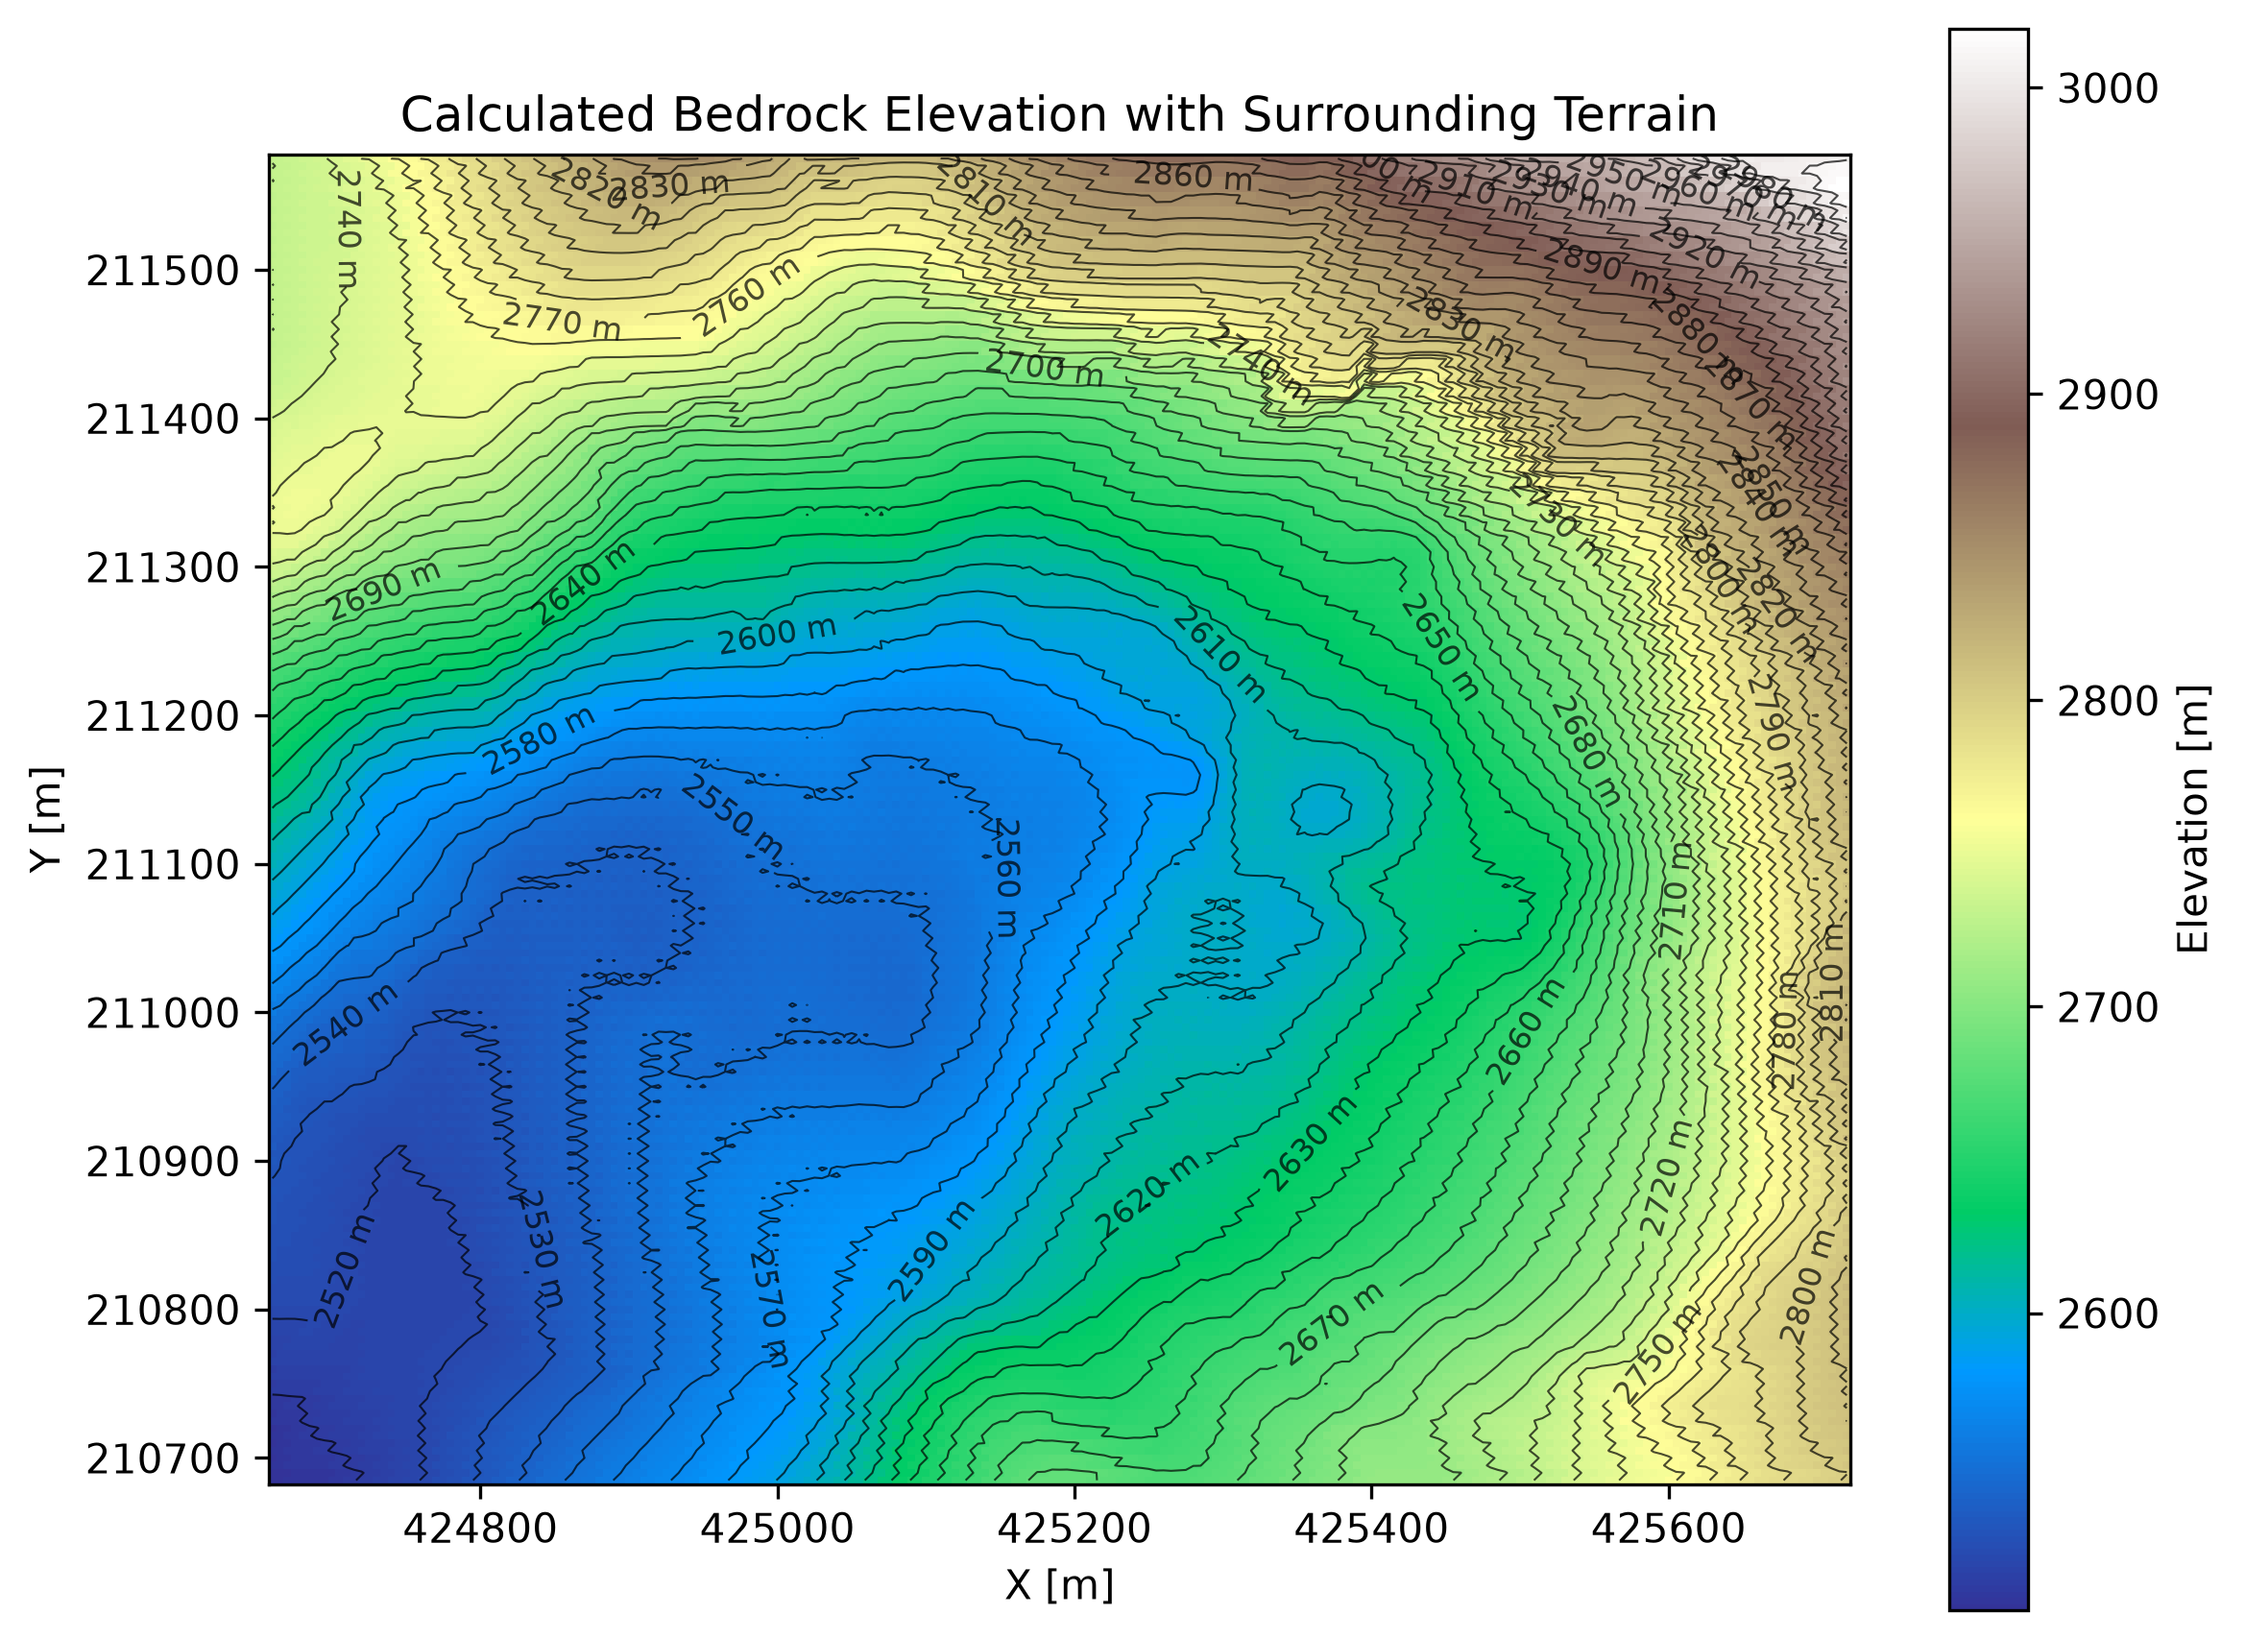
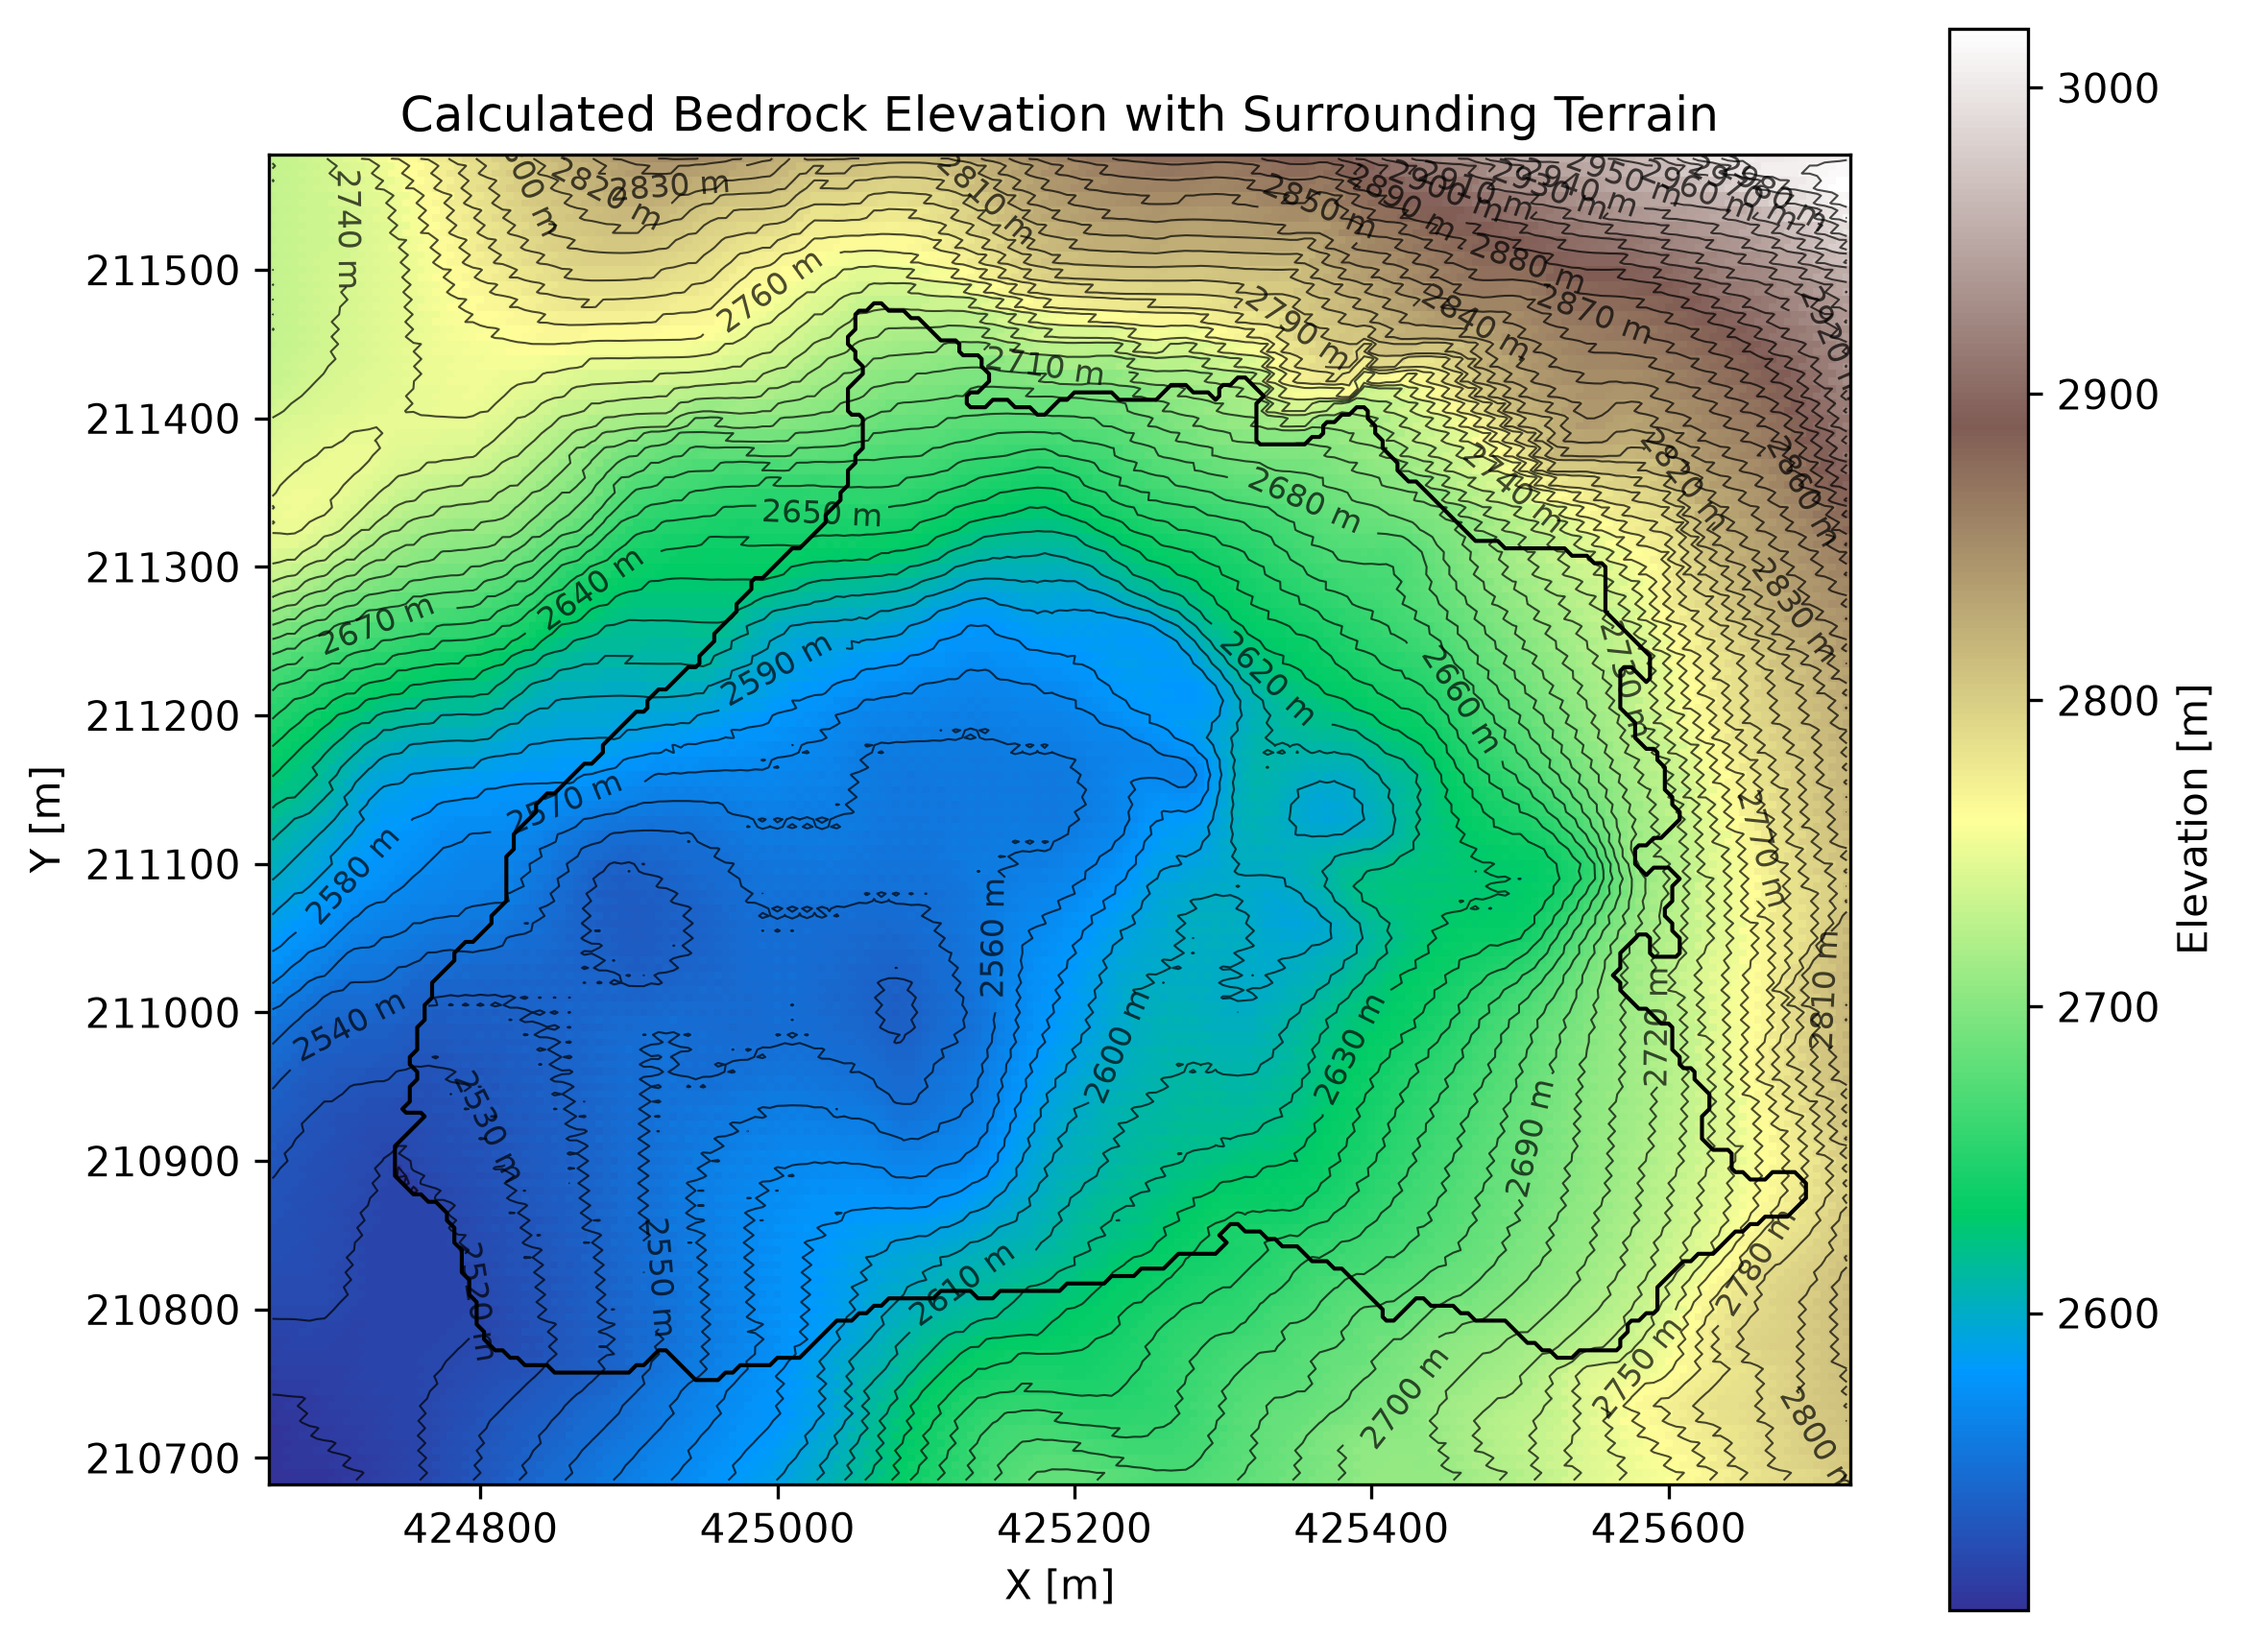
Release v0.4.2: Claude Code Review Changes: Implemented H1-8 and M12 - see claude_codebase_audit.md and CHANGELOG.md for details.

diff --git a/src/pysole/interpolation.py b/src/pysole/interpolation.py
@@ -213,7 +213,7 @@ def built_in_kriging_interpolation(
     variogram_model: str = "spherical",
     external_drift_grid: np.ndarray | dict[str, np.ndarray] | None = None,
     drift_terms: list[str] | None = None,
-    variogram_params: tuple[float, float, float] | None = None,
+    variogram_params: tuple[float, float, float] | dict[str, float] | None = None,
     n_cores: int = -1,
     show_progress: bool = True,
 ) -> tuple[np.ndarray, np.ndarray]:
@@ -246,7 +246,12 @@ def built_in_kriging_interpolation(
     max_d = float(np.max(sample_dists)) if N_pts > 1 else 100.0
 
     if variogram_params is not None:
-        range_a, sill, nugget = variogram_params
+        if isinstance(variogram_params, dict):
+            range_a = float(variogram_params.get("range", max(max_d * 0.6, 1.0)))
+            sill = float(variogram_params.get("sill", np.var(pts[:, 2]) if N_pts > 1 else 1.0))
+            nugget = float(variogram_params.get("nugget", 0.0))
+        else:
+            range_a, sill, nugget = variogram_params
     else:
         range_a = max(max_d * 0.6, 1.0)
         sill = float(np.var(pts[:, 2])) if N_pts > 1 else 1.0
@@ -580,6 +585,7 @@ def kriging_interpolation(
     geometry: GridGeometry,
     method: str = "universal",
     variogram_model: str = "spherical",
+    variogram_params: tuple[float, float, float] | dict[str, float] | None = None,
     dem_grid: np.ndarray | None = None,
     opt_slope_grid: np.ndarray | None = None,
     drift_terms: list[str] | None = None,
@@ -693,6 +699,7 @@ def kriging_interpolation(
             variogram_model=variogram_model,
             external_drift_grid=external_drift_grids if has_ext_drifts else None,
             drift_terms=drift_terms,
+            variogram_params=variogram_params,
             n_cores=n_cores,
             show_progress=show_progress,
         )

diff --git a/src/pysole/solver.py b/src/pysole/solver.py
@@ -606,7 +606,8 @@ class Solver:
             interp_slope = self.geometry.create_interpolator(opt_slope_sin, fill_value=np.nan)
             pts_xy = np.column_stack((pts[:, 1], pts[:, 0]))  # (Y, X)
             slopes_pts = interp_slope(pts_xy)
-            slopes_pts = np.maximum(np.nan_to_num(slopes_pts, nan=0.1), 1e-4)
+            min_slope_sin = np.sin(np.radians(self.slope_floor_deg))
+            slopes_pts = np.maximum(np.nan_to_num(slopes_pts, nan=min_slope_sin), min_slope_sin)
 
             product_values = pts[:, val_col] * slopes_pts
             sample_pts = np.column_stack((pts[:, 0], pts[:, 1], product_values))
@@ -700,6 +701,7 @@ class Solver:
             geometry=self.geometry,
             method=krig_method,
             variogram_model=var_model,
+            variogram_params=getattr(self, "opt_variogram_params", None),
             dem_grid=self.dem_grid,
             opt_slope_grid=self.opt_slope,
             drift_terms=drift_terms,

diff --git a/src/pysole/__init__.py b/src/pysole/__init__.py
@@ -15,7 +15,7 @@ from .pipeline import run_from_config, OutputsConfig, PipelineExporter
 from .logging import logger, setup_logging
 from . import plotting
 
-__version__ = "0.4.1"
+__version__ = "0.4.2"
 
 __all__ = [
     "Solver",

diff --git a/CHANGELOG.md b/CHANGELOG.md
@@ -5,6 +5,26 @@ All notable changes to `PySole` will be documented in this file.
 The format is based on [Keep a Changelog](https://keepachangelog.com/en/1.0.0/),
 and this project adheres to [Semantic Versioning](https://semver.org/spec/v2.0.0.html).
 
+## [0.4.2] - 2026-10-06
+
+### Fixed
+- **[H7] Low-Slope Thickness Underestimation Floor Symmetry (`src/pysole/solver.py`, `src/pysole/interpolation.py`)**:
+  - Enforced symmetric slope floor clamping (`slope_floor_deg`, default $5^\circ$, $\sin 5^\circ \approx 0.08715$) across both forward product generation (`get_sample_points`) and inverse thickness recovery (`finalize_bedrock` / `interpolate_kriging`).
+  - Purged hardcoded `1e-4` ($\sim 0.0057^\circ$) floor remnants from `get_sample_points`, eliminating the artificial $\sim 60\%$ ice thickness underestimation at low-slope glacier interiors ($\alpha \approx 2^\circ$).
+- **[H6] Residual Variogram Fitting Propagation (`src/pysole/solver.py`, `src/pysole/interpolation.py`)**:
+  - Propagated fitted variogram parameters (`opt_variogram_params`) from `Solver` into `kriging_interpolation()` and `built_in_kriging_interpolation()`.
+  - Allowed `built_in_kriging_interpolation()` to accept `dict` or `tuple` variogram parameters, preventing fallback to raw data variance `var(z)` on detrended residual interpolation.
+
+### Added
+- **Codebase Audit Implementations (Claude Review)**:
+  - **H1 (Spatial Grid Alignment)**: Standardized `GridGeometry` bounds, resolution verification, and spatial indexing across all modules (`raster.py`, `interpolation.py`).
+  - **H2 (Outline Orientation Symmetry)**: Unified top-down vs. bottom-up raster coordinate orientations and CRS alignment checks.
+  - **H3 (GPX/GeoJSON Reprojection)**: Automated CRS transformation & reprojection checking for vector tracks and survey profiles.
+  - **H4 (Spearman Rank Correlation)**: Integrated non-linear rank correlation evaluation ($\rho_s$) alongside Pearson $r$ into `DriftAnalyzer` (`drift_analyzer.py`).
+  - **H5 (Cross-Validation Standardization)**: Standardized feature normalization and scaling across spatial cross-validation folds.
+  - **H8 (Survey Planner Boundary Masking)**: Fixed grid geometry and polygon boundary masking in survey track planning (`survey_planner.py`).
+  - **M12 (CRS Transforms)**: Hardened projected metric coordinate system transformation edge cases.
+
 ## [0.4.1] - 2026-10-03
 
 ### Added
